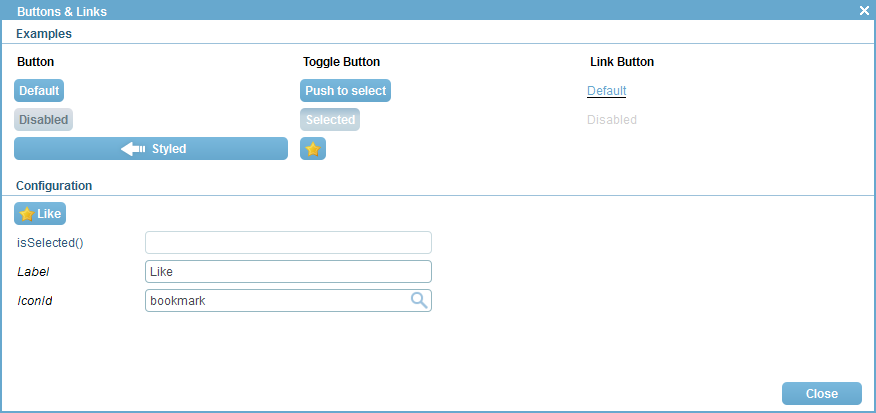
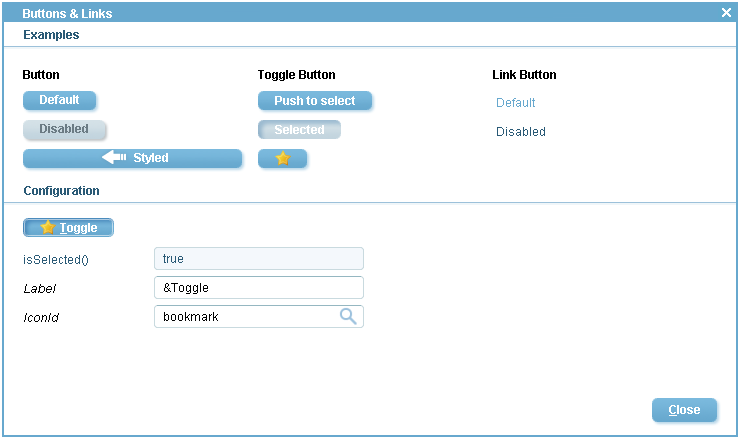
description message box

Changed region(s): [[0.0, 0.0, 1.0, 1.0], [0.1554, 0.5521, 0.4973, 0.7554]]

diff --git a/tex/ScoutClient/ScoutClient.tex b/tex/ScoutClient/ScoutClient.tex
@@ -730,15 +730,24 @@ Otherwise, buttons (and links) are placed at the bottom of the container they ar
 The code of the default toggle button in the example form of the widget application is provided in \lstref{field.togglebutton}. 
 To query the state of a toggle button method \java{isSelected} can be used. 
 
+In the configuration section of the example form the use of mnemonics using the character \& is demonstrated. 
+Please note, that this feature is not identically available across the different supported UI technologies. 
+In the Swing UI shown in \figref{buttonlink} the label ''\&Toggle'' has the effect, that pressing the \altkey{T} key combination changes the toggle state of this button. 
+In the case of the SWT UI the \key{alt} key is not necessary. 
+Pressing the \key{T} changes the toggle state. 
+In contrast to the Swing UI the letter 'T' is not underlined. 
+To optically indicate shortcut letters in the SWT UI it is recommended to adapt the label from ''\&Toggle'' to ''[\&T]oggle''. 
+The RAP UI does not currently support mnemonics on buttons. 
 
 % --------------------------------------------------------------------------- %
 \section{Message Boxes}
 
-Message boxes are used to provide information to the user of the application or ask the user simple yes/no questions. 
+Message boxes are used to provide information to a user or ask the user simple yes/no questions. 
 In Scout, class \java{MessageBox} provides a number of static convenience methods for this purpose. 
-Additionally, message boxes are shown to the user in the case of a processing exception or a veto exception. 
-
-
+Additionally, message boxes are shown to the user in the case of a processing exception or a veto exception\footnote{
+The processing exceptions type \java{ProcessingException} represents Scout's core exception class. 
+The veto exception type \java{VetoException} is a direct subclass of the processing exception and is typically used in service calls for subjects with insuffiecient authorization. 
+}. 
 
 \begin{figure}
 \includegraphics[width=14cm]{messagebox.png}
@@ -747,6 +756,37 @@ The message box shown in front is defined by the properties entered in the confi
 \figlabel{messagebox}
 \end{figure}
 
+In the examples section of the \java{MessageBoxForm} form shown in \figref{messagebox} a number of links is provided. 
+Clicking on any of these links opens a corresponding message box via the static convenience methods available with class \java{MessageBox}. 
+For example, calling \java{MessageBox.showOkMessage(title, header, info)} opens a message box with a title, a header text and some additional information. 
+
+\lstinputlisting[
+  label=\lstlabel{field.openmessagebox},
+  caption=Configuring and starting of a message box.,
+  index={MessageBox,Configure a Message Box},
+  linerange={434-453},
+  float
+]
+{../code/widgets/org.eclipse.scout.widget.client/src/org/eclipse/scout/widget/client/ui/forms/MessageBoxForm.java}
+
+In addition to the static convenience methods, message boxes can be configured to meet specific requirements by a number of parameters. 
+These parameters are shown in \figref{messagebox} in the configuration section of the sample form \java{MessageBoxForm} of the Scout widget application.  
+Clicking on the \button{Sample Content} will fill in example values for the message box parameters. 
+The configured message box can them be started by clicking on the \link{Open the configured MessageBox}. 
+This behaviour is implemented in the link's \java{execClickAction} method according to \lstref{field.openmessagebox}. 
+The text below details the purpose of less evident message box properties.
+
+Message box buttons only appear if an non-emtpy label text is assigned to the \property{Yes Button Text}, the \property{No Button Text} and \property{Cancel Button Text}. 
+If the \property{hidden text} has a non-empty text assigned, an additional \button{Copy} will be added to the message box. 
+An example use case is the case of elaborate error messages (or complete stack traces in cases where this does not negatively impact the application's security). 
+Here the copy button allows to transport this text into the system clipboard. 
+From the clipboard the user may decides to paste this text into an email to the companys help desk. 
+The \property{default return value} specifies the return value of the message box if the box closes autmatically after the time provided in the \property{auto close millisecond} has passed. 
+If the \property{auto close millisecond} is set to -1, the message box will not clause automatically. 
+
+Once a message box is started with method \java{startMessageBox} the user interface is blocked until the user chooses any of the options or clicks the dialog away. 
+The selected option is the provided by the method's return value. 
+If the user closes the message box by hitting the \key{esc} or clicking on the icon to close a dialog, the start method of the message box will always return the value \java{CANCEL\_OPTION} of the \java{IMessageBox} interface.
 
 % --------------------------------------------------------------------------- %
 \section{List Box}

diff --git a/tex/common.tex b/tex/common.tex
@@ -126,6 +126,7 @@
 % --------------------------------------------------------------------------- %
 \newcommand{\menu}[1]{\textsc{#1} menu}
 \newcommand{\key}[1]{$<$\textsc{#1}$>$}
+\newcommand{\altkey}[1]{$<$\textsc{alt}$>$+$<$\textsc{#1}$>$}
 \newcommand{\contextmenu}[1]{\textsc{#1} context menu}
 \newcommand{\button}[1]{\textsc{#1} button}
 \newcommand{\tab}[1]{\textsc{#1} tab}
